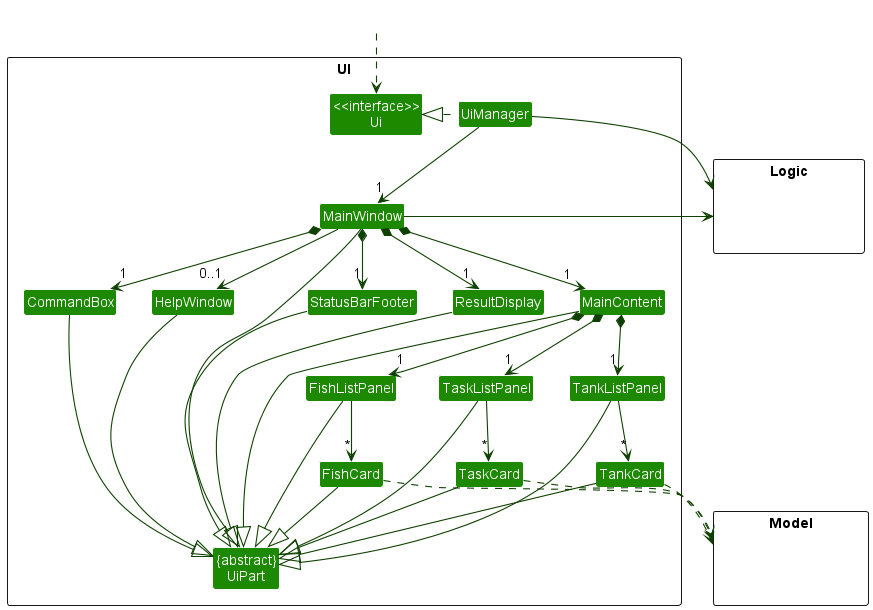
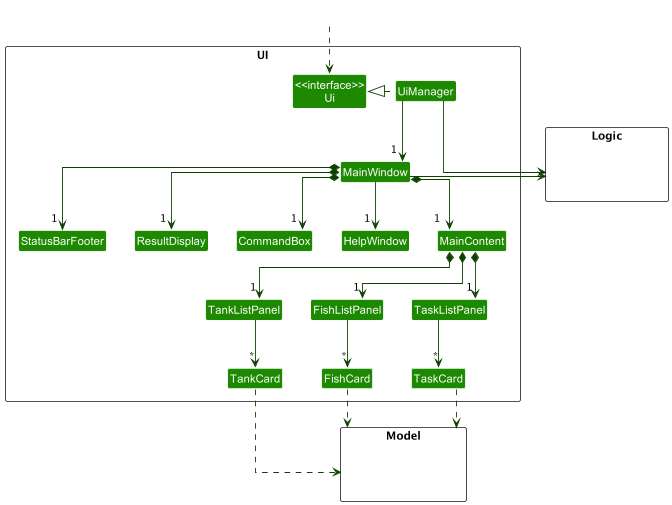
Do Finishing Touches

diff --git a/docs/UserGuide.md b/docs/UserGuide.md
@@ -174,11 +174,14 @@ do use this to redirect you to our user guide!
 A sample Tank item is shown below. For each Tank you add in *Fish Ahoy!*, you have to add a 
 [Description]((#description)). A [Tank Index](#index-parameters) is then automatically assigned to the tank. 
 The **Number of fish** will be automatically updated whenever you add/delete a fish from this tank in *Fish Ahoy!* 
-The [Ammonia](#tank-ammonia-level-reading-alammonia_level), [Temperature](#tank-temperature-reading-tptemperature)and
-[pH](#tank-ph-reading-phph) are generated from [readings](#tank-readings) that you add to *Fish Ahoy!*
+The [Ammonia](#tank-ammonia-level-reading-alammonia_level), [Temperature](#tank-temperature-reading-tptemperature) and
+[pH](#tank-ph-reading-phph) charts are generated from [readings](#tank-readings) that you add to *Fish Ahoy!*
 
 ![Ui](images/UiTank.png) 
 
+
+> :bulb: Tip: Fluctuations in tank conditions can lead to a lot of stress for your fish. The handy charts displayed for [Ammonia](#tank-ammonia-level-reading-alammonia_level), [Temperature](#tank-temperature-reading-tptemperature) and
+[pH](#tank-ph-reading-phph) can let you know at a glance if your levels are stable! 
 
 ## Fish Interface
 
@@ -226,16 +229,16 @@ In general, the command format is as follows:<br>
 * Prefix parameters require a prefix. For example, the command is as follows: `tank add d/<TANK_NAME>`
 * In the features section, prefix parameters will be as such: `X/<CONTENT>` where `X` is a valid prefix and `<CONTENT>` is the content of this parameter, subject to its constraints
 * You can only have multiple values for tag prefixes `tg/<TAG>`. All other prefixes can only have 1 value. 
-> :information_source: Additional information: You can have multiple prefix parameters for the same prefix, but only the last one will be used.
+> :information_source: Additional information: If you have multiple prefix parameters for the same prefix, only the last one will be used.
 > <br>For example: `tank add d/Tank 1 d/Tank 2` will create a tank called 'Tank 2'.
 
-> :information_source: Additional information: For alphanumeric parameters, they are case-sensitive!
+> :information_source: Additional information: Alphanumeric parameters are case-sensitive!
 > <br>For Example: `d/Freshwater tank` is different from `d/freshwater tank`
 
 > :bulb: Tip: Redundant spaces will be removed automatically for prefix parameters
 > <br> For example: `d/ Tank 1` does not make the description ' Tank 1', but is the same as `d/Tank 1`.
 
-> :bulb: Tip: The order you type distinct prefix parameters do not matter!
+> :bulb: Tip: The order you type distinct prefix parameters in does not matter!
 > <br> For example, `tank addReadings tk/1 al/1 ph/6 tp/23` is the same as `tank addReadings al/1 ph/6 tp/23 tk/1`
 
 > :exclamation: Warning: Alphanumeric parameters like descriptions and names may be truncated it they are too long!
@@ -301,7 +304,7 @@ In general, the command format is as follows:<br>
 * Type: `Tank`
 * `<PH>` A number, with or without decimal points.
 * Prefix: `ph/`
-* Example: `al/7.1`
+* Example: `ph/7.1`
 
 #### Tank temperature reading `tp/<TEMPERATURE>`
 * Type: `Tank`
@@ -381,7 +384,7 @@ Parameters:
   * `<TANK_INDEX>` - The tank [index.](#index-parameters) Specifies which tank to delete.
     * `<TANK_INDEX>` is a positive integer (1, 2, 3...) and must correspond to an actual tank.
   
-> :exclamation: Warning: You can't delete a tank that has fishes and tasks attached to it. Remove those first before deleting the tank.
+> :exclamation: Warning: You can't delete a tank that has fishes and tasks attached to it. Remove those first before deleting the tank. This is to ensure that you don't accidentally remove any fish you did not mean to.
 
 Example:
 * `tank delete 2` deletes the second tank in the [tanks panel](#about-the-interface)
@@ -413,7 +416,7 @@ Example:
 
 You can feed all the fish in a tank, updating all the fishes' last fed date to the current date and time with the `tank feed` command.
 
-Use this command when you feed your fishes in real life, so you can keep track of when you last fed your fishes in *Fish Ahoy!*
+Use this command when you feed your fishes in real life, so you can keep track of when you last fed your fishes in *Fish Ahoy!* 
 
 Format: `tank feed <TANK_INDEX>`
 
@@ -424,6 +427,8 @@ Parameters:
 
 > :bulb: Tip: If you do not want to set the fishes' last fed date to the current date and time, you can manually update it with the
 > `fish edit <FISH_INDEX> lfd/<LAST_FED_DATE>` command!
+
+> :bulb: Tip: If you have any [feeding reminders](#feeding-reminders), the `tank feed` command will automatically remove those for the specified tank!
 
 Example:
 * It is currently the 6th of April, 2.31 pm. If you have a tank which index is 1, with 3 fishes, named 'Nemo', 'Dory' and 'Marlin'. `tank feed 1` sets the following details of all three fishes:
@@ -496,12 +501,12 @@ Example:
 * Scenario 1: It is currently the 3rd of April, 12 pm. `tank addReadings tk/1 al/0.2 ph/7 tp/27.2` adds the readings to the first tank in the [tanks panel](#about-the-interface) with the following details:
   * Ammonia level: 0.2 ppm
   * pH: 7
-  * Temperature: 27.2 degrees celcius
+  * Temperature: 27.2 degrees celsius
   * Date and time associated with each reading: 03/04/2023 1200
 * Scenario 2 (Screenshot below): On 6th April 2.33 pm, `tank addReadings tk/1 al/4 ph/14 tp/40` adds the following readings to the first tank in the [tanks panel](#about-the-interface) with the following details:
   * Ammonia level: 4 ppm
   * pH: 14
-  * Temperature: 40 degrees celcius
+  * Temperature: 40 degrees celsius
   * Date and time associated with each reading: 06/04/2023 1433
 
 ![AddReadingDemo](images/UiAddReadingsDemo.png)
@@ -904,8 +909,23 @@ Format: `help`
 
 ## FAQ
 
+**Q**: How do I add my fish to *Fish Ahoy!*<br>
+**A**: Simply [create a tank](#adding-a-tank-tank-add) with the `tank add` command, and then [add your fish](#adding-a-fish-fish-add) to that tank with the `fish add` command!
+
+**Q**: How can I use *Fish Ahoy!* to manage my fishes' feeding schedule?<br>
+**A**: The [Fish Interface](#fish-interface) for each fish displays the last time the fish was fed, and the next time the fish should be fed. You can use this information to manage your fishes' feeding schedule! *Fish Ahoy!* will also remind you to feed your fish when it is time to feed them!
+
+**Q**: How can I use *Fish Ahoy!* to manage my fishes' health?<br>
+**A**: The [Tank Interface](#tank-interface) for each tank displays a helpful summary chart of key tank conditions. You can use this information to manage your fishes' health! *Fish Ahoy!* will also remind you to feed your fish when it is time to feed them making sure you don't underfeed or overfeed your fish!
+
+**Q**: I added a fish, but I don't see it.<br>
+**A**: Make sure you are viewing the correct tank. You can switch between tanks using the `tank view` [command](#viewing-a-tank-tank-view). Alternatively, you can [list all fishes](#listing-fishes-list-fishes) using the `list fishes` [command](#listing-fishes-list-fishes) to see all fishes in all tanks.
+
 **Q**: How do I transfer my data to another Computer?<br>
 **A**: Install *Fish Ahoy!*  in the other computer and overwrite the empty data file it creates with the file that contains the data of your previous *Fish Ahoy!* home folder.
+
+**Q**: Is there any limit to the number of fish I can store with *Fish Ahoy!*<br>
+**A**: No! You can store all of your fish on *Fish Ahoy!*
 
 --------------------------------------------------------------------------------------------------------------------
 
@@ -919,6 +939,7 @@ Format: `help`
 | **Sort**   | `fish sort KEYWORD [TANK]`<br> e.g., `fish sort by/n tk/2`                                                              |
 | **List**   | `list tasks` `list fishes`                                                                                              |
 | **Help**   | `help`                                                                                                                  |
+
 
 ## Command prefix summary
 

diff --git a/docs/DeveloperGuide.md b/docs/DeveloperGuide.md
@@ -87,11 +87,13 @@ The sections below give more details of each component.
 
 ### UI component
 
-The **API** of this component is specified in [`Ui.java`](https://github.com/se-edu/addressbook-level3/tree/master/src/main/java/seedu/address/ui/Ui.java)
+The **API** of this component is specified in [`Ui.java`](https://github.com/AY2223S2-CS2103T-T17-4/tp/blob/master/src/main/java/seedu/address/ui/Ui.java)
 
 ![Structure of the UI Component](images/UiClassDiagram.png)
 
-The UI consists of a `MainWindow` that is made up of parts e.g.`CommandBox`, `ResultDisplay`, `MainContent`, `StatusBarFooter` etc. All these, including the `MainWindow`, inherit from the abstract `UiPart` class which captures the commonalities between classes that represent parts of the visible GUI.
+The UI consists of a `MainWindow` that is made up of parts e.g.`CommandBox`, `ResultDisplay`, `MainContent`, `StatusBarFooter` etc. All these, including the `MainWindow`, inherit from a generic abstract `UiPart` class (not shown above) which captures the commonalities between classes that represent parts of the visible GUI.
+
+![Breakdown of MainWindow](images/UiMainWindowLabelled.png)
 
 The `UI` component uses the JavaFx UI framework. The layout of these UI parts are defined in matching `.fxml` files that are in the `src/main/resources/view` folder. For example, the layout of the [`MainWindow`](https://github.com/se-edu/addressbook-level3/tree/master/src/main/java/seedu/address/ui/MainWindow.java) is specified in [`MainWindow.fxml`](https://github.com/se-edu/addressbook-level3/tree/master/src/main/resources/view/MainWindow.fxml)
 
@@ -100,7 +102,37 @@ The `UI` component,
 * executes user commands using the `Logic` component.
 * listens for changes to `Model` data so that the UI can be updated with the modified data.
 * keeps a reference to the `Logic` component, because the `UI` relies on the `Logic` to execute commands.
-* depends on some classes in the `Model` component, as it displays `Fish` object residing in the `Model`.
+* depends on some classes in the `Model` component, as it displays `Fish`, `Tank`, and `Task` objects residing in the `Model`.
+* does not depend on the `Storage` component, as it does not read or save data to files directly.
+
+#### Displaying Panels
+All information about the fish, tanks, and tasks are displayed in their respective panels. 
+These panels have a `ListView` that displays the information in a scrollable list. 
+The `ListView` is populated by an `ObservableList` that is stored in the `Model` component. 
+The `ListView` is automatically notified when the `ObservableList` is updated, so that the `ListView` can be updated with the new information. 
+This is not triggered if any items inside the `ObservableList` are modified, so the `Logic` component calls the `refresh` functions of each pane when a command is executed.
+
+Shown below is the class diagram for all the relevant classes for a `TankListPanel`. The other panels are similar.
+
+![Class diagram for the tank panel](images/UiTankPanelOverview.png)
+
+`TankListPanel` has a `ListView` that displays the `TankCard` objects. Since these are custom objects, they require a custom cell factory to be created. 
+`TankListViewCell` is the custom cell factory that creates the `TankCard` objects. 
+All the required JavaFX components are described in the corresponding `TankListCard.fxml` file.
+
+#### Displaying Tank Readings
+Unlike the rest of the UI, the charts used to display the tank readings are not described in any `.fxml` file. 
+Instead, they are created in the `TankCard` class. This was done to allow for greater flexibility in terms of which chart should be displayed for any given tank.
+While this version of the app does not have this functionality, future versions of the app could allow the user to choose which chart to display for each tank.
+It may also allow the user to add custom tank readings based on the equipment that they have.
+
+To populate the charts, the `TankCard` class uses the `Tank` object stored in the `Model` component passed to it by the `TankListPanel`.
+Each of the three types of readings has their own `ObservableList` which is then looped through to create the data points for the chart.
+
+A possible improvement to the way that readings are currently stored is to use a `HashMap` instead of three separate `ObservableList`s.
+This could allow the user to supply their own types of readings (which would be the key of the `HashMap`) and the corresponding values.
+Combining this with the ability to choose which chart to display for each tank would allow for a lot of flexibility in terms of how the user can view their tank readings.
+However, this would requite significant changes to the way readings are stored. It might require a rework of the entire `readings` package to make it more flexible.
 
 ### Logic component 
 
@@ -616,23 +648,26 @@ as the app ensures this
     1. [-MAX_INT....0]: Index must be a positive non-zero integer
     2. [4..MAX_INT]: Index is out-of-bounds. Index must correspond to a valid tank.
    
+
 2. The current parameter parsing does not check for nonsensical or invalid values. We plan do execute sanity checks to 
     protect the user from receiving unintentional results for the following parameters:
    1. Last fed dates: Check for invalid dates like 30th February and reject them
    2. Feeding interval: While it makes sense that a feeding interval can be 0 days and 25 hours, it 
    makes our `fish sort by/fi` less intuitive as ours sorts by days then hours. `0d25h` will appear before `1d0h`
    . We can automatically convert feeding intervals such that hours is less than 24 in future iterations
-   3. Readings: Ammonia levels, temperatures and pH can accept amy numerical value that may be far out of the boundaries
-   of our GUI graph axes. In future iterations, we will check that they are realistic values, which are
-   values bounded by the axes of our respective graphs.
+
 
 3. Alphanumeric fields may be truncated if they are too long as we do not limit their length. They
 may also become truncated if the user's app window size is too small. A side effect of this can be for example,
 fish with long names, which are supposed to be distinct, will appear as the same after truncation.
 We will limit the length of such parameters in future enhancements to avoid this. 
     
+
 4. Logging messages on the terminal are not optimized for Fish Ahoy! We plan to improve this by simple changes from 
    "Addressbook" to "Fish Ahoy", as well as fixing the fxml versions in fxml files. Furthermore, we can add more useful 
    logging messages related to Fish Ahoy commands such as information on newly added commands, so the user may gain more 
    information. For instance, Tank readings could display the current list of values, so the user can understand the graph.
    
+
+5. Make the offline version of the User Guide more user-friendly by adding a css file for style.
+   Also fix links so that they work for navigation.

diff --git a/docs/index.md b/docs/index.md
@@ -1,17 +1,17 @@
 ---
 layout: page
-title: AddressBook Level-3
+title: Fish Ahoy!
 ---
 
-[![CI Status](https://github.com/se-edu/addressbook-level3/workflows/Java%20CI/badge.svg)](https://github.com/se-edu/addressbook-level3/actions)
-[![codecov](https://codecov.io/gh/se-edu/addressbook-level3/branch/master/graph/badge.svg)](https://codecov.io/gh/se-edu/addressbook-level3)
+[![CI Status](https://github.com/AY2223S2-CS2103T-T17-4/tp/workflows/Java%20CI/badge.svg)](https://github.com/se-edu/addressbook-level3/actions)
+[![codecov](https://codecov.io/gh/AY2223S2-CS2103T-T17-4/tp/branch/master/graph/badge.svg?token=U1VXFK2Q5Q)](https://codecov.io/gh/AY2223S2-CS2103T-T17-4/tp)
 
 ![Ui](images/Ui.png)
 
-**AddressBook is a desktop application for managing your contact details.** While it has a GUI, most of the user interactions happen using a CLI (Command Line Interface).
+**Fish Ahoy! is a desktop application for managing your contact details.** While it has a GUI, most of the user interactions happen using a CLI (Command Line Interface).
 
-* If you are interested in using AddressBook, head over to the [_Quick Start_ section of the **User Guide**](UserGuide.html#quick-start).
-* If you are interested about developing AddressBook, the [**Developer Guide**](DeveloperGuide.html) is a good place to start.
+* If you are interested in using Fish Ahoy!, head over to the [_Quick Start_ section of the **User Guide**](UserGuide.html#quick-start).
+* If you are interested about developing Fish Ahoy!, the [**Developer Guide**](DeveloperGuide.html) is a good place to start.
 
 
 **Acknowledgements**
